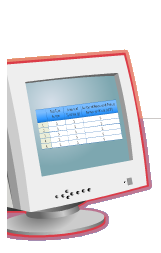
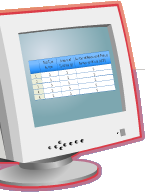
Added Hover Effect
The computer now has a hover effect.

diff --git a/src/me/jordan/enzymelab/frame/EnzymeFrame.java b/src/me/jordan/enzymelab/frame/EnzymeFrame.java
@@ -101,6 +101,8 @@ public class EnzymeFrame extends JFrame {
 		
 		calculateButton = new JButton();
 		calculateButton.setIcon(new ImageIcon(Utils.getImage("Computer.png")));
+		calculateButton.setRolloverEnabled(true);
+		calculateButton.setRolloverIcon(new ImageIcon(Utils.getImage("ComputerHover.png")));
 		calculateButton.addMouseListener(new MouseListener(){
 
 			@Override

diff --git a/src/me/jordan/enzymelab/tube/Tube.java b/src/me/jordan/enzymelab/tube/Tube.java
@@ -77,7 +77,7 @@ public class Tube {
 		}
 		updateTable();
 		frame.getToRemove().add(label);
-		frame.getLayer().add(label, 11);
+		frame.getLayer().add(label, 2);
 	}
 	
 	public void updateTable(){
